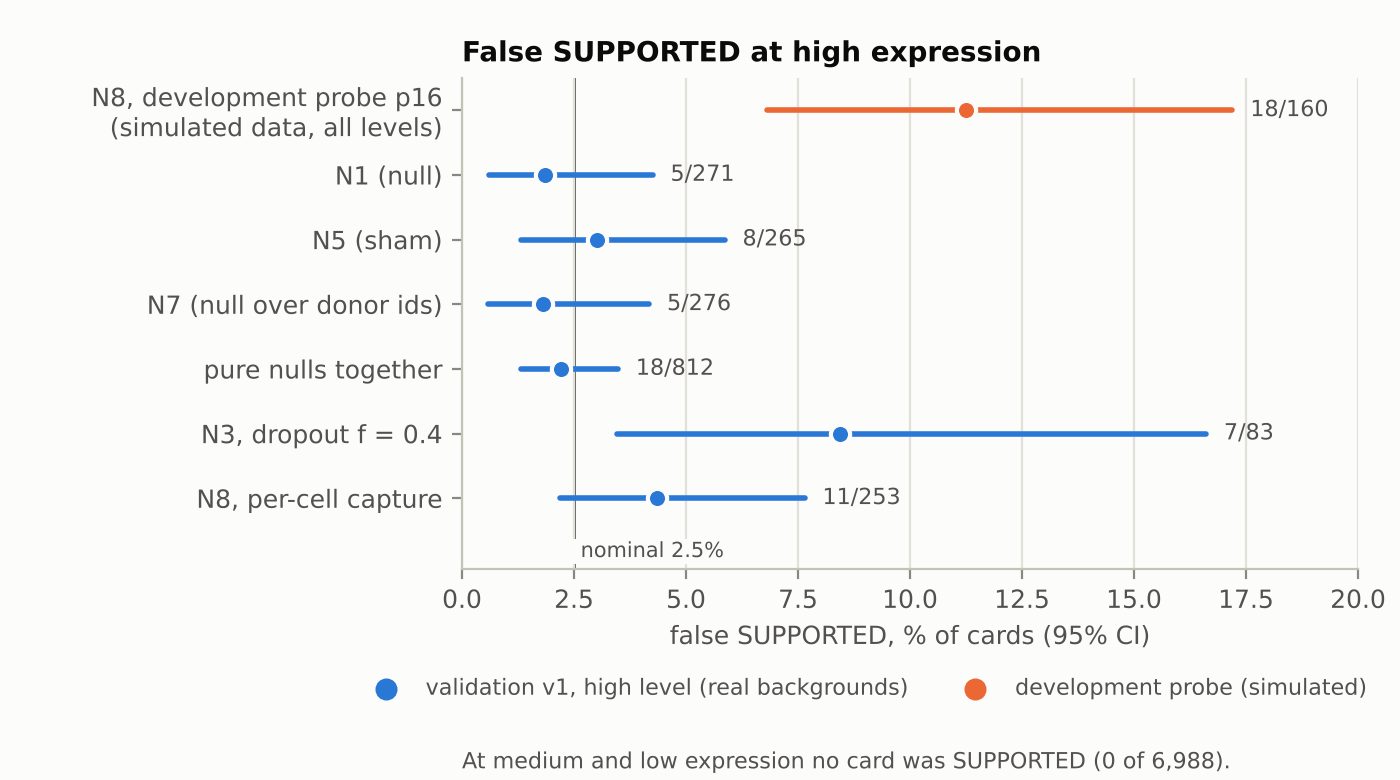
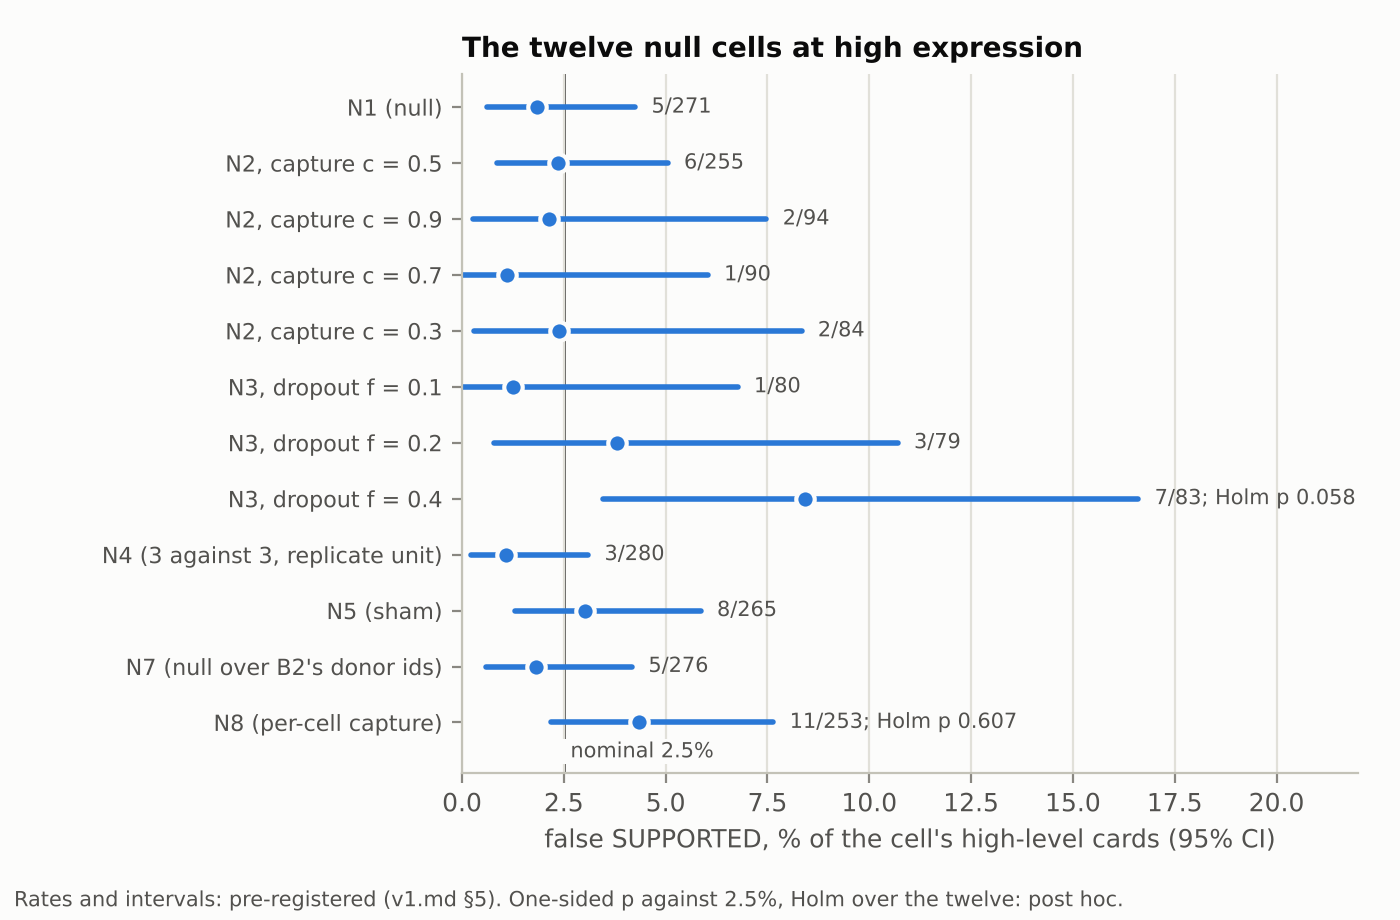
figures: the twelve null cells, N6a, denominators; positive controls as Fig. 4, TMS as A1
- Fig. 1: N7 marked as B2's, and the x label says which background carried what.
- Fig. 2: n in every label, "S2 N6a", the null cell's opposite direction marked as allowed.
- Fig. 3: all twelve high-level null cells with Holm's correction (from v1_null_cells.log); p16
  is off the common axis.
- Fig. 4 (was 5): ages 3, 18 and 20+ months (24 M, 21 F); Monte Carlo CI over 200 injections.
- Fig. A1 (was 4): the TMS mice, moved to the appendix.

Claude-Session: https://claude.ai/code/session_01MDGJh7hAAALAdwQFLhcwpp

diff --git a/paper/figures_v03/make_figures.py b/paper/figures_v03/make_figures.py
@@ -1,18 +1,18 @@
-"""The five figures of paper/manuscript_v03.md, each drawn from a published file of the repository.
+"""The figures of paper/manuscript_v03.md, each drawn from a published file of the repository.
 
     python paper/figures_v03/make_figures.py --scores scores.json --audit audit_results.json \
         --b2-log validation/exploratory/b2_sex_structure.log \
-        --p16-log validation/probes/p16_variable_capture_n8.log --out paper/figures_v03
+        --null-cells-log validation/exploratory/v1_null_cells.log --out paper/figures_v03
 
 * scores.json: branch results/panel-v1 (commit adc7d65), the scores of validation v1.
 * audit_results.json: branch results/flagship-audit (commit d2a5420), the flagship audit on TMS.
 * b2_sex_structure.log: B2 by sex and GATE 4's probe for R1's Xist claim (workflow run 38045140802).
-* p16_variable_capture_n8.log: the development probe p16 on simulated data.
+* v1_null_cells.log: the twelve null cells of the high expression level, with Holm's correction.
 
 Fig. 1 the design of v1 (claim cards per condition); Fig. 2 the criteria against their limits;
-Fig. 3 false SUPPORTED by condition at the high expression level; Fig. 4 TMS per mouse; Fig. 5 the
-real positive controls of v0.1.1 and v0.3. Every number drawn is also in the manuscript's text or
-tables. Needs matplotlib (an optional dependency of the package).
+Fig. 3 false SUPPORTED in the twelve null cells at the high expression level; Fig. 4 the real
+positive controls of v0.1.1 and v0.3; Fig. A1 (appendix) TMS per mouse. Every number drawn is also
+in the manuscript's text or tables. Needs matplotlib (an optional dependency of the package).
 """
 from __future__ import annotations
 
@@ -72,9 +72,9 @@ def fig1_design(scores: dict, out: Path):
     ax.barh(y, [r[2] for r in rows], height=0.55, color=BLUE, zorder=2)
     for yi, (_, c, n) in zip(y, rows):
         ax.text(n + 20, yi, f"{n:,}", va="center", color=INK2, fontsize=8)
-    ax.set_yticks(y, [f"{r[1]}" for r in rows])
+    ax.set_yticks(y, [f"{r[1]} (B2)" if r[1] == "N7" else r[1] for r in rows])
     ax.grid(axis="y", visible=False)
-    ax.set_xlabel("claim cards")
+    ax.set_xlabel("claim cards (every condition on B1 but N7, on B2)")
     total = sum(r[2] for r in rows)
     ax.set_title(f"Validation v1: {total:,} claim cards in 9,750 datasets")
     # group labels at the left margin
@@ -93,79 +93,77 @@ def fig1_design(scores: dict, out: Path):
 def fig2_criteria(scores: dict, out: Path):
     """Every cell of the error criteria as a share of its allowance, and S3 as a share of its minimum."""
     cr = scores["criteria"]
-    err = [(f"S1 {c}", v["k"], v["max_allowed"]) for c, v in cr["S1"]["conditions"].items()]
+    names = {"S2:N6": "S2 N6a", "S4:null:opposite": "S4 null opposite*"}  # S2's N6 group: N6a (N6b cannot be SUPPORTED)
+    err = [(f"S1 {c}", v["k"], v["n"], v["max_allowed"]) for c, v in cr["S1"]["conditions"].items()]
     for s in ("S2", "S4", "S5", "S6"):
         for cell, v in cr[s]["cells"].items():
-            err.append((cell.replace(":", " "), v["k"], v["max_allowed"]))
-    err.append(("S7b crashes", cr["S7b"]["k"], cr["S7b"]["max_allowed"]))
-    s3 = [(f"S3 {st}", v["k"], v["min_required"]) for st, v in cr["S3"]["strata"].items()]
-    fig, (a, b) = plt.subplots(1, 2, figsize=(7.4, 5.6), gridspec_kw=dict(width_ratios=[3, 2]))
+            err.append((names.get(cell, cell.replace(":", " ")), v["k"], v["n"], v["max_allowed"]))
+    err.append(("S7b crashes", cr["S7b"]["k"], cr["S7b"]["n"], cr["S7b"]["max_allowed"]))
+    s3 = [(f"S3 {st}", v["k"], v["n"], v["min_required"]) for st, v in cr["S3"]["strata"].items()]
+    fig, (a, b) = plt.subplots(1, 2, figsize=(8.6, 5.8), gridspec_kw=dict(width_ratios=[3, 2]))
     y = list(range(len(err)))[::-1]
-    a.scatter([k / m for _, k, m in err], y, s=36, color=BLUE, edgecolor=SURFACE, linewidth=1.5, zorder=3)
-    a.set_yticks(y, [f"{lab}: {k} (≤ {m})" for lab, k, m in err], fontsize=7.5)
+    a.scatter([k / m for _, k, _, m in err], y, s=36, color=BLUE, edgecolor=SURFACE, linewidth=1.5, zorder=3)
+    a.set_yticks(y, [f"{lab}: {k:,}/{n:,} (≤ {m})" for lab, k, n, m in err], fontsize=7.5)
     a.set_xlim(0, 1.08)
     a.grid(axis="y", visible=False)
     _limit_line(a, 1.0, "limit")
     a.set_xlabel("errors as a share of the allowance")
     a.set_title("(a) error criteria: every cell below its limit")
     y3 = list(range(len(s3)))[::-1]
-    b.scatter([k / m for _, k, m in s3], y3, s=36, color=BLUE, edgecolor=SURFACE, linewidth=1.5, zorder=3)
-    b.set_yticks(y3, [f"{lab}: {k} (≥ {m})" for lab, k, m in s3], fontsize=7.5)
+    b.scatter([k / m for _, k, _, m in s3], y3, s=36, color=BLUE, edgecolor=SURFACE, linewidth=1.5, zorder=3)
+    b.set_yticks(y3, [f"{lab}: {k:,}/{n:,} (≥ {m:,})" for lab, k, n, m in s3], fontsize=7.5)
     b.set_xlim(0.9, 1.5)
     b.set_ylim(-0.8, len(s3) - 0.2)
     b.grid(axis="y", visible=False)
     _limit_line(b, 1.0, "minimum")
-    b.set_xlabel("correct definite outcomes\nas a share of the minimum")
+    b.set_xlabel("correct definite outcomes,\nshare of the minimum")
     b.set_title("(b) S3: decisiveness")
-    fig.text(0.01, 0.01, "S7a (rule violations): 0 of 10,540, where none is allowed.", color=INK2, fontsize=8)
-    fig.subplots_adjust(left=0.27, right=0.97, top=0.93, bottom=0.12, wspace=0.95)
+    fig.text(0.01, 0.035, "S7a (rule violations): 0 of 10,540, where none is allowed.", color=INK2, fontsize=8)
+    fig.text(0.01, 0.01, "* On null data NOT SUPPORTED against the direction is allowed; its rate is bounded as a "
+             "false detection's.", color=INK2, fontsize=8)
+    fig.subplots_adjust(left=0.27, right=0.96, top=0.93, bottom=0.15, wspace=1.05)
     fig.savefig(out / "fig2_criteria.png", dpi=200)
     plt.close(fig)
 
 
-def fig3_by_level(scores: dict, p16_log: Path, out: Path):
-    """False SUPPORTED at the high expression level, with 95% Clopper-Pearson intervals."""
-    pl = scores["per_level"]
+def _null_cells(log: Path) -> list[tuple[str, int, int, float]]:
+    """(cell, k, n, Holm's p) of v1_null_cells.log's twelve high-level null cells."""
+    text = log.read_text().split("## 2. The twelve null cells at the high level")[1].split("##")[0]
+    rows = re.findall(r"^  (N\d \S+)\s+(\d+)/(\d+) = .*?\s([\d.]+)\s+([\d.]+)$", text, flags=re.M)
+    return [(c, int(k), int(n), float(h)) for c, k, n, _, h in rows]
 
-    def sup(key):
-        e = pl[key]
-        return int(e["outcomes"]["SUPPORTED"]["k"]), int(e["n"])
-    rows = [("N1 (null)", *sup("N1:null:high")), ("N5 (sham)", *sup("N5:sham:high")),
-            ("N7 (null over donor ids)", *sup("N7:mice:high"))]
-    k = sum(r[1] for r in rows)
-    n = sum(r[2] for r in rows)
-    rows.append(("pure nulls together", k, n))
-    rows += [("N3, dropout f = 0.4", *sup("N3:f=0.4:high")), ("N8, per-cell capture", *sup("N8:beta(2,2):high"))]
-    m = re.search(r"N8 beta\(2,2\).*?\n\s*false SUPPORTED by the engine (\d+)/(\d+)", p16_log.read_text())
-    dev = (int(m.group(1)), int(m.group(2)))
-    fig, ax = plt.subplots(figsize=(7.0, 3.9))
-    y = list(range(len(rows) + 1))[::-1]
-    for yi, (lab, k, n) in zip(y[1:], rows):
+
+def fig3_by_level(null_log: Path, out: Path):
+    """False SUPPORTED in the twelve null cells at the high level, with 95% Clopper-Pearson intervals."""
+    rows = _null_cells(null_log)
+    if len(rows) != 12:
+        raise SystemExit(f"expected twelve null cells in {null_log}, found {len(rows)}")
+    names = {"N1 null": "N1 (null)", "N4 3v3": "N4 (3 against 3, replicate unit)", "N5 sham": "N5 (sham)",
+             "N7 mice": "N7 (null over B2's donor ids)", "N8 beta(2,2)": "N8 (per-cell capture)"}
+    fig, ax = plt.subplots(figsize=(7.0, 4.6))
+    y = list(range(len(rows)))[::-1]
+    for yi, (cell, k, n, holm) in zip(y, rows):
         lo, hi = clopper_pearson(k, n)
         ax.plot([100 * lo, 100 * hi], [yi, yi], color=BLUE, linewidth=2, solid_capstyle="round", zorder=2)
-        ax.scatter([100 * k / n], [yi], s=48, color=BLUE, edgecolor=SURFACE, linewidth=1.5, zorder=3)
-        ax.text(100 * hi + 0.4, yi, f"{k}/{n}", va="center", color=INK2, fontsize=8)
-    lo, hi = clopper_pearson(*dev)
-    ax.plot([100 * lo, 100 * hi], [y[0], y[0]], color=ORANGE, linewidth=2, solid_capstyle="round", zorder=2)
-    ax.scatter([100 * dev[0] / dev[1]], [y[0]], s=48, color=ORANGE, edgecolor=SURFACE, linewidth=1.5, zorder=3)
-    ax.text(100 * hi + 0.4, y[0], f"{dev[0]}/{dev[1]}", va="center", color=INK2, fontsize=8)
-    ax.set_yticks(y, ["N8, development probe p16\n(simulated data, all levels)"] + [r[0] for r in rows])
+        ax.scatter([100 * k / n], [yi], s=44, color=BLUE, edgecolor=SURFACE, linewidth=1.5, zorder=3)
+        ax.text(100 * hi + 0.4, yi, f"{k}/{n}; Holm p {holm:.3f}" if holm < 1 else f"{k}/{n}", va="center",
+                color=INK2, fontsize=7.5)
+    labels = [names.get(c, c.replace(" c=", ", capture c = ").replace(" f=", ", dropout f = ")) for c, *_ in rows]
+    ax.set_yticks(y, labels, fontsize=8)
     ax.grid(axis="y", visible=False)
     _limit_line(ax, 2.5, "nominal 2.5%")
-    ax.set_xlim(0, 20)
-    ax.set_xlabel("false SUPPORTED, % of cards (95% CI)")
-    ax.set_title("False SUPPORTED at high expression")
-    ax.set_ylim(-1.1, len(rows) + 0.5)
-    fig.text(0.33, 0.015, "At medium and low expression no card was SUPPORTED (0 of 6,988).", color=INK2, fontsize=8)
-    ax.scatter([], [], s=48, color=BLUE, label="validation v1, high level (real backgrounds)")
-    ax.scatter([], [], s=48, color=ORANGE, label="development probe (simulated)")
-    ax.legend(loc="upper center", bbox_to_anchor=(0.45, -0.18), ncol=2, fontsize=8)
-    fig.subplots_adjust(left=0.33, right=0.97, top=0.90, bottom=0.27)
+    ax.set_xlim(0, 22)
+    ax.set_ylim(-0.9, len(rows) - 0.4)
+    ax.set_xlabel("false SUPPORTED, % of the cell's high-level cards (95% CI)")
+    ax.set_title("The twelve null cells at high expression")
+    fig.text(0.01, 0.015, "Rates and intervals: pre-registered (v1.md §5). One-sided p against 2.5%, "
+             "Holm over the twelve: post hoc.", color=INK2, fontsize=7.5)
+    fig.subplots_adjust(left=0.33, right=0.97, top=0.92, bottom=0.16)
     fig.savefig(out / "fig3_by_level.png", dpi=200)
     plt.close(fig)
 
 
-def fig4_tms(audit: dict, out: Path):
+def figA1_tms(audit: dict, out: Path):
     """TMS: per-mouse median genes detected against mi_3bin, young and old, by sex. The Census's stages are "3m"
     and "20m" ("20-month-old stage and over"); the legend gives each group's age from its mouse ids (24_60_M is 24
     months)."""
@@ -186,7 +184,7 @@ def fig4_tms(audit: dict, out: Path):
         ax.legend(loc="upper left", fontsize=7.5)
     axes[0].set_ylabel("mi_3bin (Smad3–Col1a1)")
     fig.subplots_adjust(left=0.10, right=0.98, top=0.88, bottom=0.16, wspace=0.08)
-    fig.savefig(out / "fig4_tms_mice.png", dpi=200)
+    fig.savefig(out / "figA1_tms_mice.png", dpi=200)
     plt.close(fig)
 
 
@@ -204,7 +202,7 @@ def _b2(log: Path) -> tuple[dict, list]:
     return g4, ids
 
 
-def fig5_controls(audit: dict, b2_log: Path, out: Path):
+def fig4_controls(audit: dict, b2_log: Path, out: Path):
     """v0.1.1 on TMS (GATE 1) and v0.3 on B2 (GATE 4 and the design), side by side."""
     g1 = {r["stratum"]["age"]: r["n_genes_ratio"] for r in audit["F"]["Xist"]["gate1_table"]}
     kept = (audit["F"]["Xist"]["gate2"]["retained_frac"], audit["F"]["Y_score"]["gate2"]["retained_frac"])
@@ -217,7 +215,7 @@ def fig5_controls(audit: dict, b2_log: Path, out: Path):
     a.scatter([g1[s] for s in strata], ya, s=56, color=BLUE, edgecolor=SURFACE, linewidth=1.5, zorder=3)
     for yi, s in zip(ya, strata):
         a.text(g1[s], yi + 0.22, f"{g1[s]:.2f}×", ha="center", va="bottom", color=INK2, fontsize=8)
-    a.set_yticks(ya, [f"{s.replace('m', ' months')}" for s in strata])
+    a.set_yticks(ya, ["3 months", "18 months", "20 months+\n(M 24, F 21)"])
     a.set_ylim(-0.9, len(strata) - 0.5)
     a.set_xlim(0.9, 2.5)
     a.grid(axis="y", visible=False)
@@ -238,7 +236,7 @@ def fig5_controls(audit: dict, b2_log: Path, out: Path):
     b.set_ylim(-0.9, len(rows) - 0.5)
     b.grid(axis="y", visible=False)
     _limit_line(b, 0.25, "$\\delta_{min}$ 0.25")
-    b.set_xlabel("GATE 4 response to 2-fold Xist (95% CI)")
+    b.set_xlabel("GATE 4 response to 2-fold Xist\n(Monte Carlo 95% CI, 200 injections)")
     b.set_title("(b) v0.3 on B2: GATE 4 over all\ncells calls Xist invalid", fontsize=9)
     c = fig.add_subplot(gs[1, :])
     stage_order = ["2-week-old stage", "5-week-old stage", "8-week-old stage", "2-month-old stage",
@@ -264,7 +262,7 @@ def fig5_controls(audit: dict, b2_log: Path, out: Path):
     c.set_title("(c) B2 by development stage: single males and single females never share a stage", fontsize=9)
     c.legend(loc="lower right", fontsize=8)
     fig.subplots_adjust(left=0.13, right=0.97, top=0.92, bottom=0.08)
-    fig.savefig(out / "fig5_positive_controls.png", dpi=200)
+    fig.savefig(out / "fig4_positive_controls.png", dpi=200)
     plt.close(fig)
 
 
@@ -273,7 +271,7 @@ def main(argv=None) -> int:
     ap.add_argument("--scores", type=Path, required=True)
     ap.add_argument("--audit", type=Path, required=True)
     ap.add_argument("--b2-log", type=Path, required=True)
-    ap.add_argument("--p16-log", type=Path, required=True)
+    ap.add_argument("--null-cells-log", type=Path, required=True)
     ap.add_argument("--out", type=Path, default=Path(__file__).resolve().parent)
     args = ap.parse_args(argv)
     scores = json.loads(args.scores.read_text())
@@ -281,9 +279,9 @@ def main(argv=None) -> int:
     args.out.mkdir(parents=True, exist_ok=True)
     fig1_design(scores, args.out)
     fig2_criteria(scores, args.out)
-    fig3_by_level(scores, args.p16_log, args.out)
-    fig4_tms(audit, args.out)
-    fig5_controls(audit, args.b2_log, args.out)
+    fig3_by_level(args.null_cells_log, args.out)
+    fig4_controls(audit, args.b2_log, args.out)
+    figA1_tms(audit, args.out)
     print("\n".join(sorted(str(p.relative_to(args.out)) for p in args.out.glob("fig*.png"))))
     return 0
 
